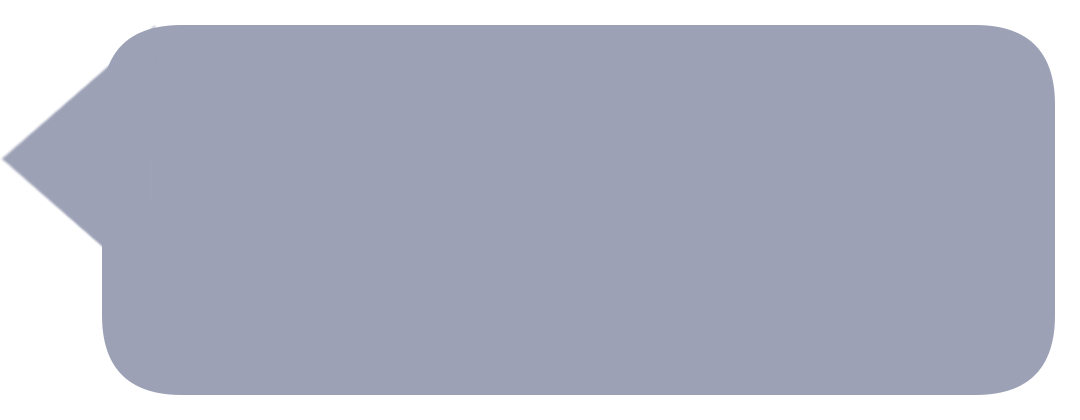
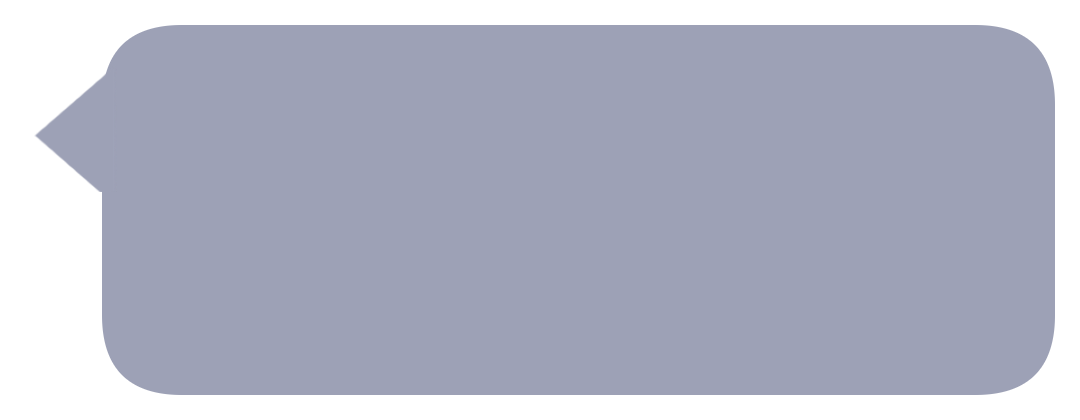
Fixed bubbles (hooray)

Changed region(s): [[0.0, 0.2476, 0.0917, 0.5881], [0.0611, 0.1857, 0.0917, 0.2476], [0.0917, 0.1548, 0.1222, 0.1857]]

diff --git a/screens/Projects.js b/screens/Projects.js
@@ -219,7 +219,7 @@ export default function Projects({navigation, route}) {
           </View>}
           </View>
         </View>
-        <Image style={{width: "auto", height: 30, marginTop: -20}} source={require('./../assets/X-Over-Drawer.png')} />
+        <Image style={{width: "auto", height: 30, marginTop: -10}} source={require('./../assets/X-Over-Drawer.png')} />
         <ScrollView style={{flex: 4, height: "100%"}}>
           <View style={styles.projElem}>
             <XOverHeader textStyles={styles.subheaders} wide={false} text={"Team"} />
@@ -242,10 +242,10 @@ export default function Projects({navigation, route}) {
             <View key={route.params.project.updates[0].text + route.params.project.updates[0].link.text} style={{flex: 1, flexDirection: "row", height: "auto", marginTop: 10}}>
               <Image key={route.params.project.updates[0].name + " profile"} style={{flex: 1, height: "80%", width: "auto", resizeMode: "contain"}} source={require("./../assets/default_profile.png")} />
               <ImageBackground key={route.params.project.updates[0].text + " bubble"} style={[styles.bubble, {flex: 4}]} source={require("./../assets/X-Over-Bubble.png")}>
-                <Text style={{position: "absolute", fontFamily: "Kanit_400Regular", textAlign: "right", right: 20, top: 0}}>{route.params.project.updates[0].time.toLocaleTimeString([], {hour: '2-digit', minute: '2-digit'})}</Text>
+                <Text style={{position: "absolute", fontFamily: "Kanit_400Regular", textAlign: "right", right: 20, top: 5}}>{route.params.project.updates[0].time.toLocaleTimeString([], {hour: '2-digit', minute: '2-digit'})}</Text>
                 <Text style={{marginLeft: 40, marginTop: 5, fontFamily: "Kanit_400Regular", fontSize: 18, lineHeight: 24}}>{route.params.project.updates[0].name}</Text>
-                <Text numberOfLines={1} style={{marginLeft: 40, paddingLeft: 20, fontFamily: "Kanit_400Regular", width: "80%"}}>{route.params.project.updates[0].text}</Text>
-                <Text onPress={() => {navigation.jumpTo('Projects', {project: route.params.project, user: route.params.user, source: "Projects", openFile: route.params.project.updates[0].link.filename})}} style={{marginLeft: 40, paddingLeft: 20, fontFamily: "Kanit_400Regular", textDecorationLine: 'underline', fontWeight: 'bold'}}>{route.params.project.updates[0].link.text}</Text>
+                <Text numberOfLines={1} style={{marginLeft: 40, fontFamily: "Kanit_400Regular", width: "80%"}}>{route.params.project.updates[0].text}</Text>
+                <Text onPress={() => {navigation.jumpTo('Projects', {project: route.params.project, user: route.params.user, source: "Projects", openFile: route.params.project.updates[0].link.filename})}} style={{marginLeft: 40, fontFamily: "Kanit_400Regular", textDecorationLine: 'underline', fontWeight: 'bold'}}>{route.params.project.updates[0].link.text}</Text>
               </ImageBackground>
             </View>
           </View>) : (

diff --git a/screens/Home.js b/screens/Home.js
@@ -65,10 +65,10 @@ export default function Home({navigation, route}) {
                   <View key={index + item.text + item.link.text} style={{flex: 1, flexDirection: "row", height: 80, marginTop: 20}}>
                     <Image key={item.name + " profile" + index} style={{flex: 1, height: "85%", width: "auto", marginRight: 10}} source={require("./../assets/default_profile.png")} />
                     <ImageBackground key={item.text + " bubble" + index} style={[styles.bubble, {flex: 4 }]} source={require("./../assets/X-Over-Bubble.png")}>
-                      <Text style={{position: "absolute", fontFamily: "Kanit_400Regular", textAlign: "right", right: 20, top: 0}}>{item.time.toLocaleTimeString([], {hour: '2-digit', minute: '2-digit'})}</Text>
+                      <Text style={{position: "absolute", fontFamily: "Kanit_400Regular", textAlign: "right", right: 20, top: 5}}>{item.time.toLocaleTimeString([], {hour: '2-digit', minute: '2-digit'})}</Text>
                       <Text style={{marginLeft: 40, marginTop: 5, fontFamily: "Kanit_400Regular", fontSize: 18, lineHeight: 24}}>{item.name}</Text>
-                      <Text numberOfLines={1} style={{marginLeft: 40, paddingLeft: 20, fontFamily: "Kanit_400Regular"}}>{item.text}</Text>
-                      <Text onPress={() => {navigation.jumpTo('Projects', {project: currProject, source: "Home", openFile: item.link.filename, user: route.params.user})}} style={{marginLeft: 40, paddingLeft: 20, fontFamily: "Kanit_400Regular", textDecorationLine: 'underline', fontWeight: 'bold'}}>{item.link.text}</Text>
+                      <Text numberOfLines={1} style={{marginLeft: 40, fontFamily: "Kanit_400Regular"}}>{item.text}</Text>
+                      <Text onPress={() => {navigation.jumpTo('Projects', {project: currProject, source: "Home", openFile: item.link.filename, user: route.params.user})}} style={{marginLeft: 40, fontFamily: "Kanit_400Regular", textDecorationLine: 'underline', fontWeight: 'bold'}}>{item.link.text}</Text>
                     </ImageBackground>
                   </View>
                   )}
